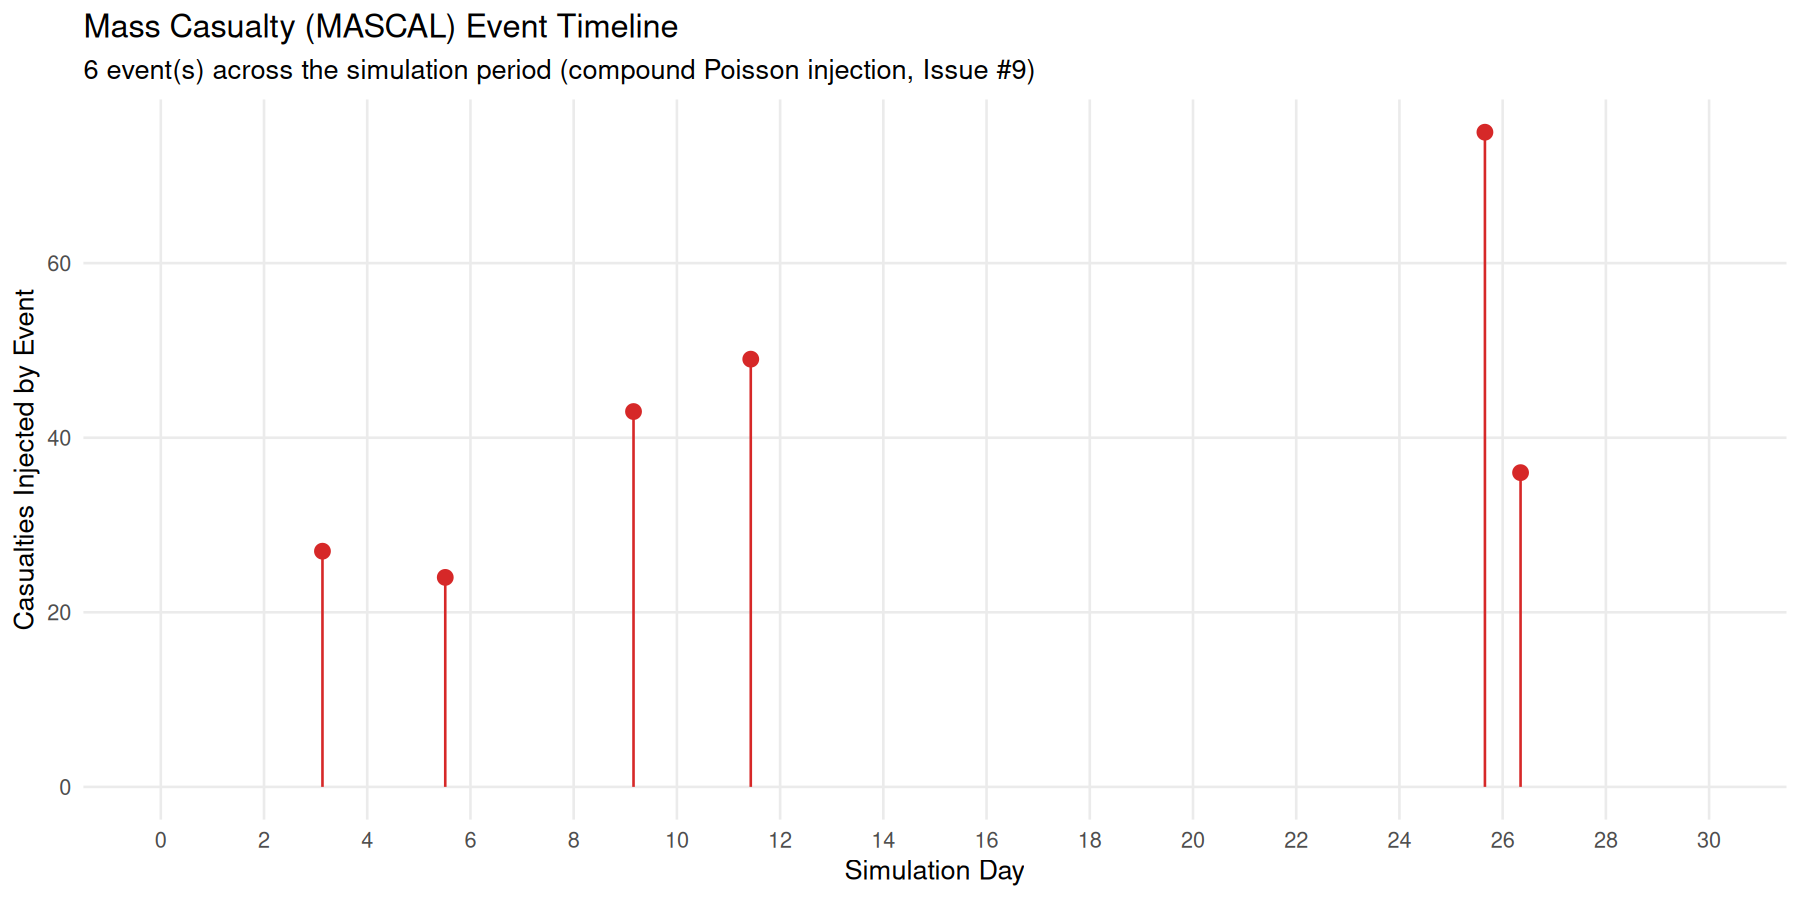
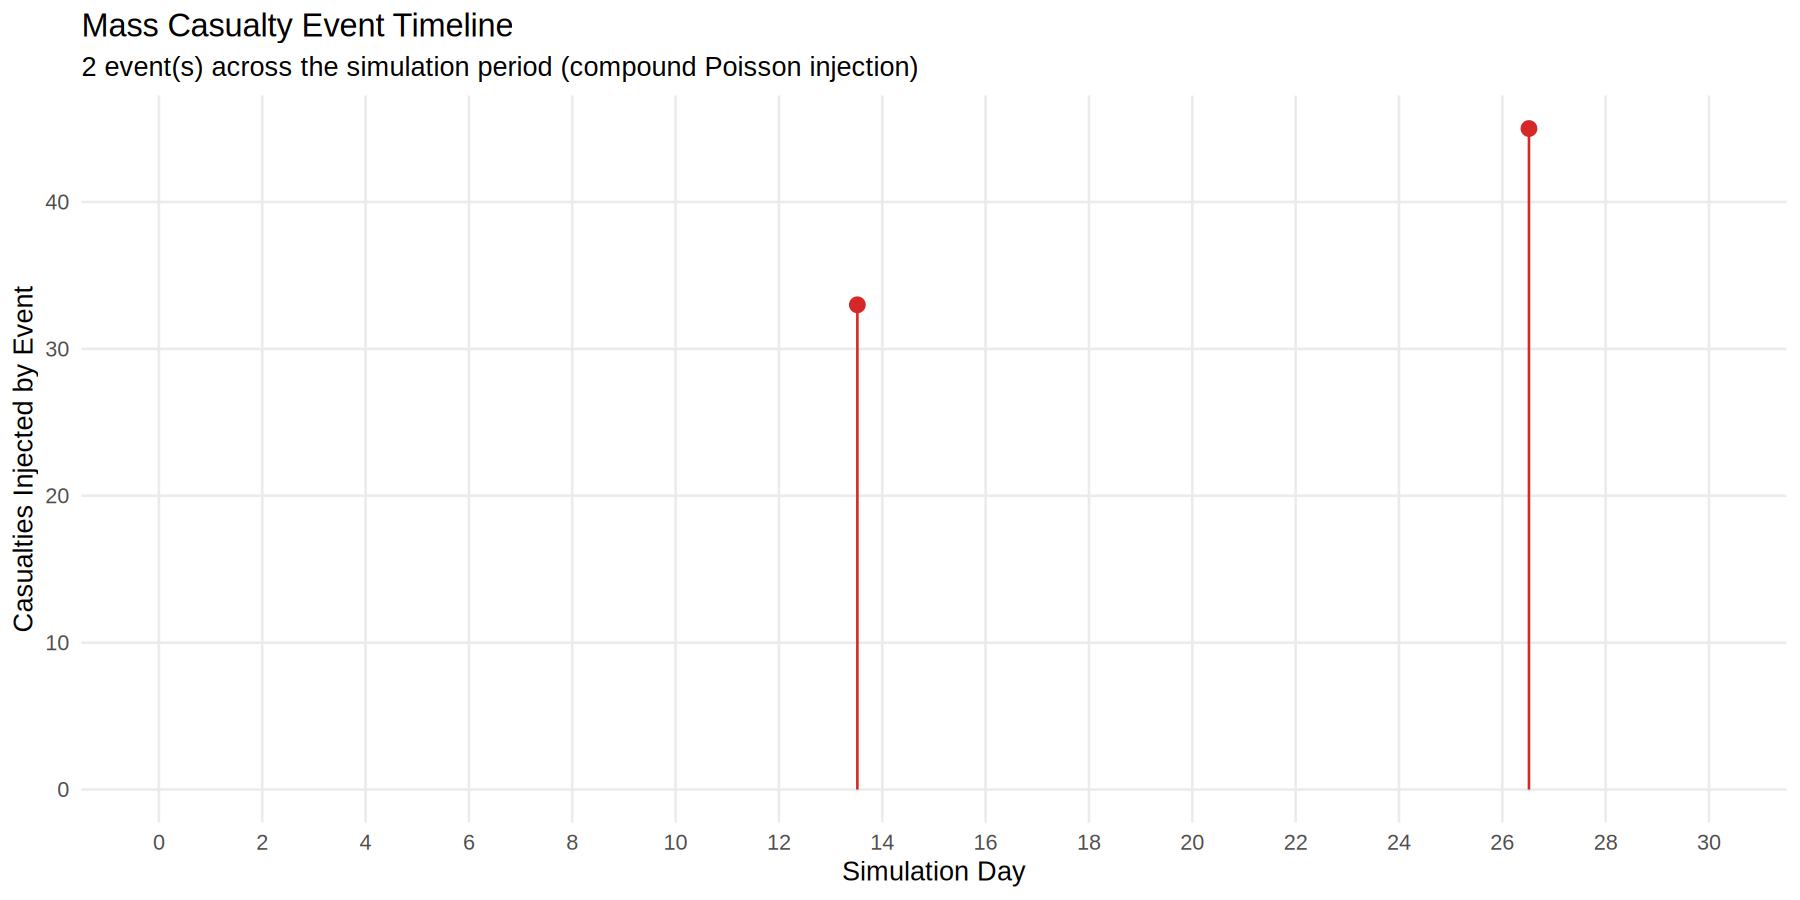
fix(issue-232): audit every tracked figure and refresh the two that had drifted
Completes the figure audit the Morris re-render started. Each of the thirty-one
tracked images was checked against the prose and tables that cite it.

Twenty-nine were already current, and the seed-42 set is now demonstrably so: a
seed-42 30-day run reproduces the tracked baseline byte for byte in this
session, across `logs/logs.txt` and all eight arrival and event diagnostics
under `data/`. The fourteen plots that run produces therefore describe the
published numbers exactly, and are deliberately not replaced: they were
rendered in the pinned Dev Container, and overwriting them with sandbox
renderings of identical data would cost provenance for no gain. The Welch
plot, the transport fleet-size sweep, the forward ICU share frontier and the
comparative scenario plot were each checked against their own tables and agree.

Two had drifted.

`dow_survival_function.png` drew the pre-Issue-203 ceilings of 2.3% and 1.9%
while the calibration table three lines below it stated 2.0% and 1.6%. It was
the one figure in the project no code produced: drawn once by hand with the
ceilings of the day written in as literals. `scripts/render_dow_survival.R`
replaces that with a figure drawn from the `dow.params` block of
`env_data.json`, for the base configuration or a named scenario profile, so a
re-fit changes the configuration the figure is drawn from and the two cannot
disagree again.

`mass_casualty_events.png` showed six events of sizes 27 to 75 from a model
[…]

diff --git a/docs/Single_Run_Analysis.md b/docs/Single_Run_Analysis.md
@@ -355,24 +355,28 @@ The preceding sections analyse sustained casualty tempo (the background lognorma
 
 An event's drawn casualty count is now its total rather than its survivor count: a configured share of it, `mass_casualty.event.kia_fraction`, arrives killed at or near the point of injury and is handled by the mortuary pathway rather than triaged (see the README's [Mass Casualty Event Injection](../README.md#5-mass-casualty-event-injection)). At the shipped share of 0.28, a 30-day run at this rate and seed produces 78 event-derived casualties, of which 27 are immediate killed and 51 wounded, where every one of the 78 would previously have been wounded. The wounded load an event places on the surgical echelons is therefore smaller than the figures below record for the same nominal event size, and a load on mortuary handling and killed-casualty transport that those figures do not include at all now accompanies it.
 
-> **Note on configuration:** the figures in this section are the only ones in this document produced under a non-default configuration. Mass casualty injection ships disabled (`mass_casualty.event.rate_per_day = 0`), so both columns below were run explicitly at 0.2 events per day, and `images/mass_casualty_events.png` is generated the same way and cannot be reproduced by a shipped-configuration run. Both columns were re-measured in the pinned Dev Container alongside the rest of this document, at 10 replications each, so they describe the current model rather than the earlier one the previously published figures described.
+> **Note on configuration:** the figures in this section are the only ones in this document produced under a non-default configuration. Mass casualty injection ships disabled (`mass_casualty.event.rate_per_day = 0`), so both columns below, the single run that follows them and `images/mass_casualty_events.png` were all produced with that rate temporarily set to 0.2, and none of them can be reproduced by a shipped-configuration run. The figure is therefore the one tracked image that `run.R --refresh-baseline` cannot write, and is copied into place from the run's own output directory; that is what let it fall three model revisions behind the prose around it before Issue #232.
 
 **10 replications × 30 days (seed 42, `mass_casualty.event.rate_per_day = 0.2`):**
 
 | Metric | Background-only baseline | With mass casualty injection |
 |---|---|---|
 | Mean total casualties/run | 444.6 | 682.1 |
-| Mean mass casualty events/run | 0 | 6.50 (range 4–9) |
-| DOW rate — background-origin casualties | 0.18% (8/4,446) | 0.28% (13/4,574) |
-| DOW rate — mass-casualty-origin casualties | — | 0.58% (13/2,242) |
+| Mean mass casualty events/run | 0 | 5.40 (range 3–8) |
+| DOW rate — background-origin casualties | 0.18% (8/4,446) | 0.28% (13/4,577) |
+| DOW rate — mass-casualty-origin casualties | — | 0.58% (13/2,244) |
 
-The mean 6.50 events per 30-day run is consistent with the configured 0.2/day event rate (theoretical expectation: 30 × 0.2 = 6); event count varies across replications, over a range of 4 to 9 across the 10 replications, confirming the Poisson process is genuinely stochastic rather than deterministic. Mass-casualty-origin casualties show a died-of-wounds rate 2.1 times the background-origin rate, 0.58% against 0.28%, which is consistent with the intended stress-test effect of a blast-dominant priority mix arriving faster than steady-state capacity. Three qualifications apply. It is a per-casualty-origin comparison rather than a strict temporal-window comparison (see the assumption note in the analysis code, `R/analysis.R`); deaths of wounds remain rare at this sample size, 13 in each arm, so the ratio is illustrative of direction rather than precise; and the background column is no longer the quiet baseline it once was, since the background stream can now itself deliver a heavy day, which is why its own died-of-wounds rate is non-zero at 0.18% and why the contrast between the two arms is narrower than previously published.
+The mean 5.40 events per 30-day run sits a little below the configured 0.2/day event rate (theoretical expectation: 30 × 0.2 = 6), which ten replications cannot separate from it; event count varies from 3 to 8 across those replications, confirming the Poisson process is genuinely stochastic rather than deterministic. At a mean 41.6 casualties per event the drawn sizes sit close to the midpoint of the configured 20 to 60 range, as a uniform draw should. Mass-casualty-origin casualties show a died-of-wounds rate 2.1 times the background-origin rate, 0.58% against 0.28%, which is consistent with the intended stress-test effect of a blast-dominant priority mix arriving faster than steady-state capacity. Three qualifications apply. It is a per-casualty-origin comparison rather than a strict temporal-window comparison (see the assumption note in the analysis code, `R/analysis.R`); deaths of wounds remain rare at this sample size, 13 in each arm, so the ratio is illustrative of direction rather than precise; and the background column is no longer the quiet baseline it once was, since the background stream can now itself deliver a heavy day, which is why its own died-of-wounds rate is non-zero at 0.18% and why the contrast between the two arms is narrower than previously published.
 
-A single seed-42 run (`mass_casualty.event.rate_per_day = 0.2`, no replication averaging) illustrates the mechanism directly: 654 total casualties (400 background + 254 mass-casualty-derived) across 6 reconstructed mass casualty events (sizes 27, 24, 43, 49, 75, 36 — the 75-casualty cluster on day 26 likely merges two closely-spaced real events, a known limitation of the gap-based event reconstruction heuristic when two events' independent Poisson-distributed inter-arrival gap happens to fall under the clustering threshold). Relative to the background-only baseline (post_op_pathway: hold=31, icu=110; surgery deferred=13), the mass casualty run shows the R2E OT–ICU gate (Issue #43) engaging far more heavily: post-operative hold-bed overrides (165) now *exceed* ICU recovery (141) — inverted from the background-only ratio — and OT-entry deferrals for ICU-saturated Priority 2+ casualties rise from 13 to 37. R2E OT utilisation over the run rises to 31.3% (vs. R2B's 3.8%), and R1 upstream pre-bypass to R2B rises from 115 to 292 casualties as the surge saturates forward capacity. This directly demonstrates the acceptance criterion that ICU and OT contention spike under mass casualty conditions, and that a single acute event can measurably shift the OT–ICU gating mix toward the sub-optimal hold-bed pathway across an entire 30-day run, not just during the event window itself.
+A single seed-42 run (`mass_casualty.event.rate_per_day = 0.2`, no replication averaging) illustrates the mechanism directly: 537 total casualties, 459 from the background streams and 78 injected by two events, one of 33 casualties on day 14 and one of 45 on day 27. Both are recovered exactly by the gap-based reconstruction the analysis pipeline applies, which at two well-separated events has nothing to merge; the heuristic's known failure mode, two closely spaced events read as one, is a property of a busier event schedule than this seed produced.
 
-![Stem plot of the six mass casualty events reconstructed from the run, each drawn as a vertical line at its simulation day with a point at its casualty count, ranging from 24 casualties on day 5 to 75 on day 26](../images/mass_casualty_events.png)
+The effect on the R2E theatre and intensive care gate is the clearest single-run signal. Post-operative stabilisation splits `hold=85` against `icu=37` under injection, against `hold=58` and `icu=79` in the shipped background-only run at the same seed: the majority pathway inverts, and a cohort that mostly recovered in an intensive care bed mostly recovers in a holding bed instead. That is the degraded-care substitution the gate exists to expose, and it persists across the whole 30-day run rather than only during the two event windows.
 
-The events are neither evenly spaced nor evenly sized, which is the compound Poisson process behaving as configured: four events fall in the first twelve days, none between days 12 and 25, and the two largest arrive within a day of each other at the end of the run.
+The measures that once moved most now barely move at all, and the reason is instructive. OT-entry deferrals for ICU-saturated Priority 2 and lower casualties read 25 under injection against 29 without it, and upstream pre-bypass from R1 reads 177 against 179; R2E theatre utilisation rises only from 24.2% to 25.7% (against R2B's 5.2% to 4.9%). Under the previous, flattened arrival process these were the section's headline movements, because the background load left the forward echelons with spare capacity that a surge could visibly consume. An arrival process that delivers its own heavy days has already consumed it, so an injected event adds to a system that is intermittently saturated regardless. The surge still degrades the care delivered, as the pathway inversion shows; what it no longer does is reveal a constraint that the background tempo was hiding.
+
+![Stem plot of the two mass casualty events reconstructed from the run, each drawn as a vertical line at its simulation day with a point at its casualty count: 33 casualties midway through day 13 and 45 midway through day 26](../images/mass_casualty_events.png)
+
+Two events, thirteen days apart, is a thin draw from a process configured to deliver a mean of six over the run, and it is why this seed illustrates the injection mechanism rather than measures its effect. The replicated table above carries the measurement.
 
 ## Conclusion
 

diff --git a/README.md b/README.md
@@ -1048,6 +1048,7 @@ The codebase is organised into a modular layout under an `R/` directory, with a 
 | `R/scenario_runner.R`              | Comparative scenario runner; `run_scenario()`/`compare_scenarios()` execute the multi-run replication framework under a named scenario profile |
 | `app.R`                            | Shiny console with Getting Started, Configure, Run, and Analyse tabs (see [Shiny Application](#shiny-application) below) |
 | `scripts/run_sensitivity.R`        | CLI entry point for sensitivity analysis, with `--quick`, `--sobol`, `--r`, `--reps`, `--days`, `--n-sobol`, `--nboot`, `--crn-seed`, `--no-dirichlet` and `--cache-dir` flags |
+| `scripts/render_dow_survival.R`    | Renders the DOW survival function figure from the live `env_data.json` curve parameters, for the base configuration or a named scenario profile, so a re-fitted ceiling cannot leave the figure behind the calibration table |
 | `scripts/render_morris_plots.R`    | Re-renders a completed screen's scatter plots from its saved design and responses, checking each against the ranking it accompanies before writing, so a plot cannot drift away from the table it illustrates |
 | `scripts/screen_cache.sh`          | Checkpoints a screen's point cache onto its own git ref and restores it, so a multi-hour Morris or Sobol screen survives a host that reclaims its filesystem |
 | `scripts/compare_sobol_estimators.R` | Recomputes a completed decomposition's cached responses under the Jansen and Martinez pick-freeze estimators alongside the reported Saltelli one, which share the same design and so cost no further simulation, and reports whether the ordering and the separations survive the change of estimator |

diff --git a/CLAUDE.md b/CLAUDE.md
@@ -29,6 +29,7 @@ The codebase is organised into a modular layout under `R/`, with `run.R` as the 
 | `scripts/run_sensitivity.R` | CLI entry point for sensitivity analysis |
 | `scripts/run_warmup.R` | CLI entry point for Welch warm-up analysis |
 | `scripts/run_scenarios.R` | CLI entry point for the comparative scenario runner |
+| `scripts/render_dow_survival.R` | Renders `images/dow_survival_function.png` from the `dow.params` block of `env_data.json`, for the base configuration or a `--scenario` profile, so a re-fitted `p_max` cannot leave the figure disagreeing with the calibration table beneath it; `--refresh-baseline` is the only way to write the tracked image |
 | `scripts/render_morris_plots.R` | Re-renders a completed sensitivity screen's Morris scatter plots from its saved design and responses, without running the model again, checking each response's recomputed µ\* and σ against the tracked ranking CSV before writing so a plot cannot drift away from the table it illustrates; `--refresh-baseline` is the only way to write the tracked `images/morris_*.png` |
 | `scripts/screen_cache.sh` | Checkpoints a sensitivity screen's point cache onto its own git ref and restores it, so a multi-hour screen survives an environment that reclaims its filesystem mid-run |
 | `scripts/supervise_screen.sh` | Drives a long screen to completion across environment failures, restoring the cache before each attempt and checkpointing while the screen runs |
